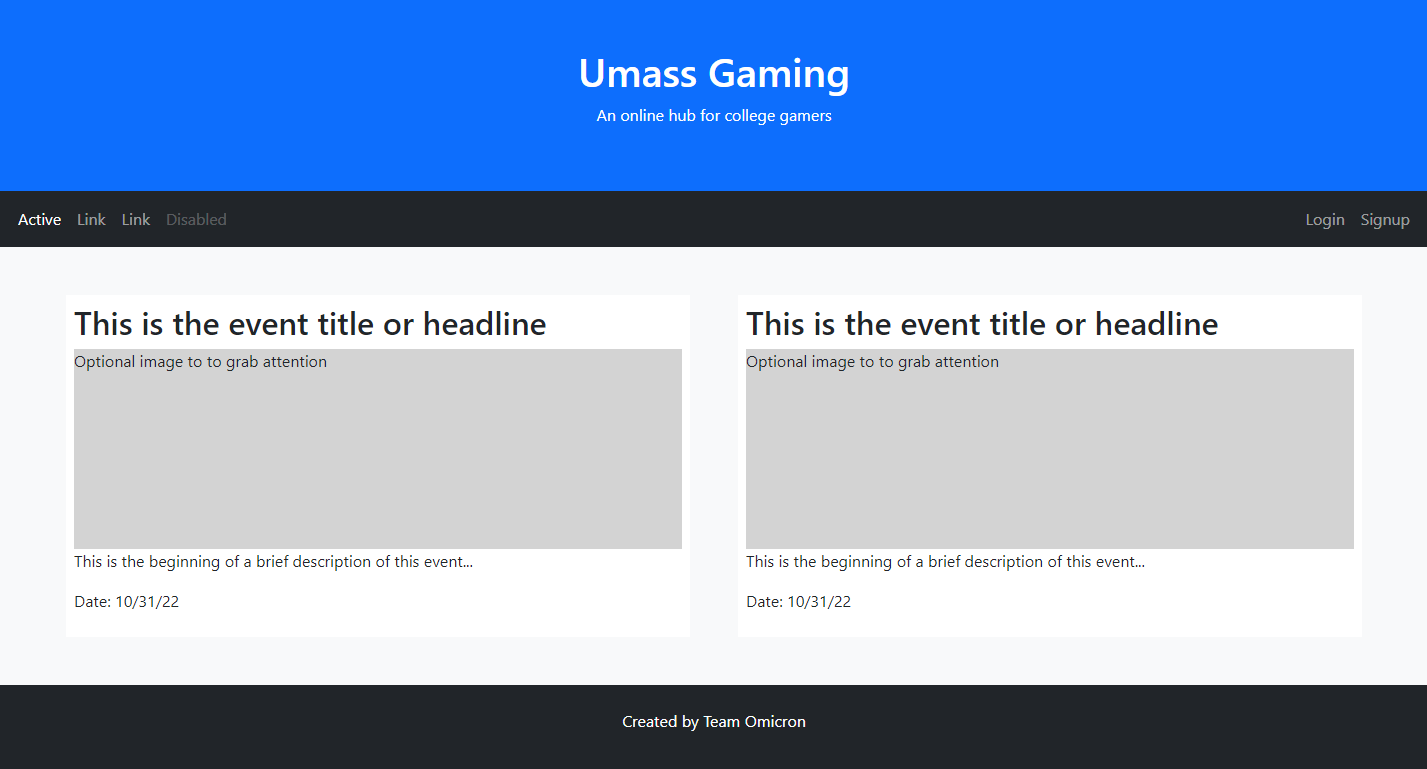
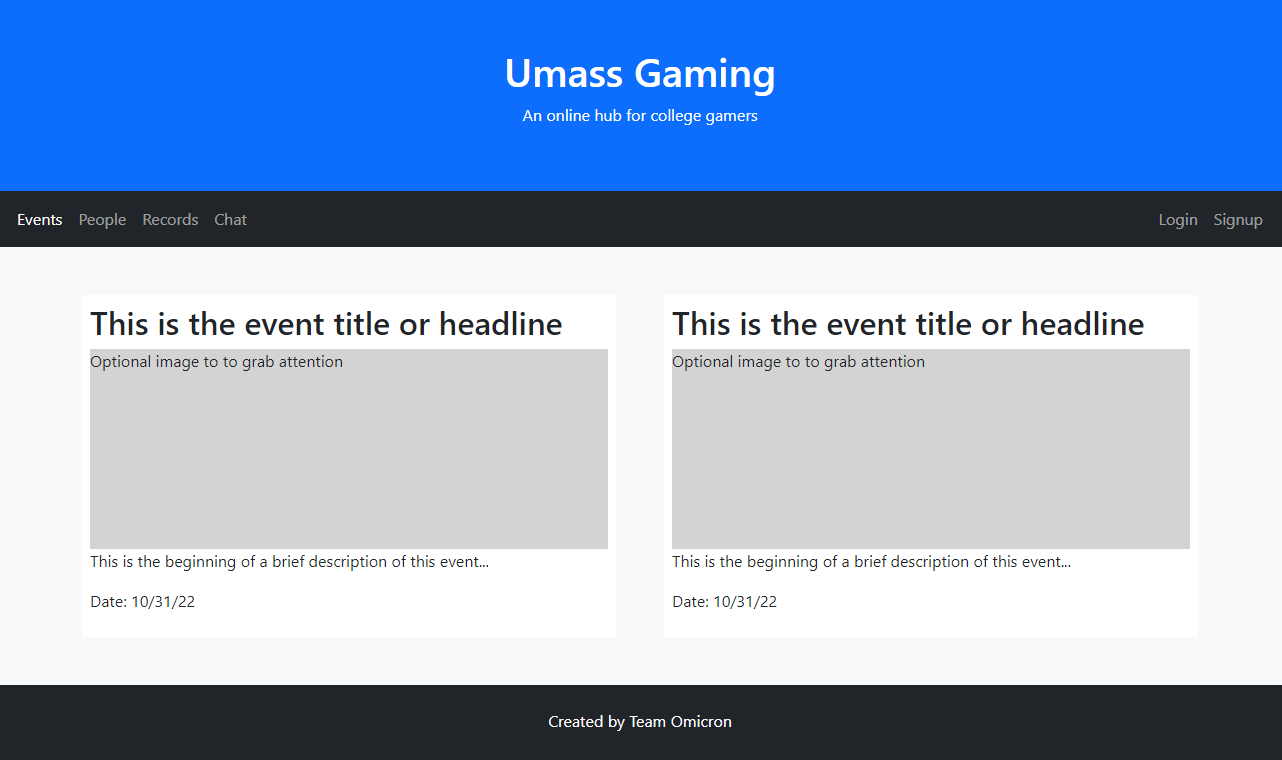
changelog

diff --git a/index.html b/index.html
@@ -16,16 +16,16 @@
 			<div class="container-fluid">
 				<ul class="navbar-nav">
 					<li class="nav-item">
-						<a class="nav-link active" href="#">Active</a>
+						<a class="nav-link active" href="#">Events</a>
 					</li>
 					<li class="nav-item">
-						<a class="nav-link" href="#">Link</a>
+						<a class="nav-link" href="#">People</a>
 					</li>
 					<li class="nav-item">
-						<a class="nav-link" href="#">Link</a>
+						<a class="nav-link" href="#">Records</a>
 					</li>
 					<li class="nav-item">
-						<a class="nav-link disabled" href="#">Disabled</a>
+						<a class="nav-link" href="#">Chat</a>
 					</li>
 				</ul>
 				<ul class="navbar-nav ml-auto">
